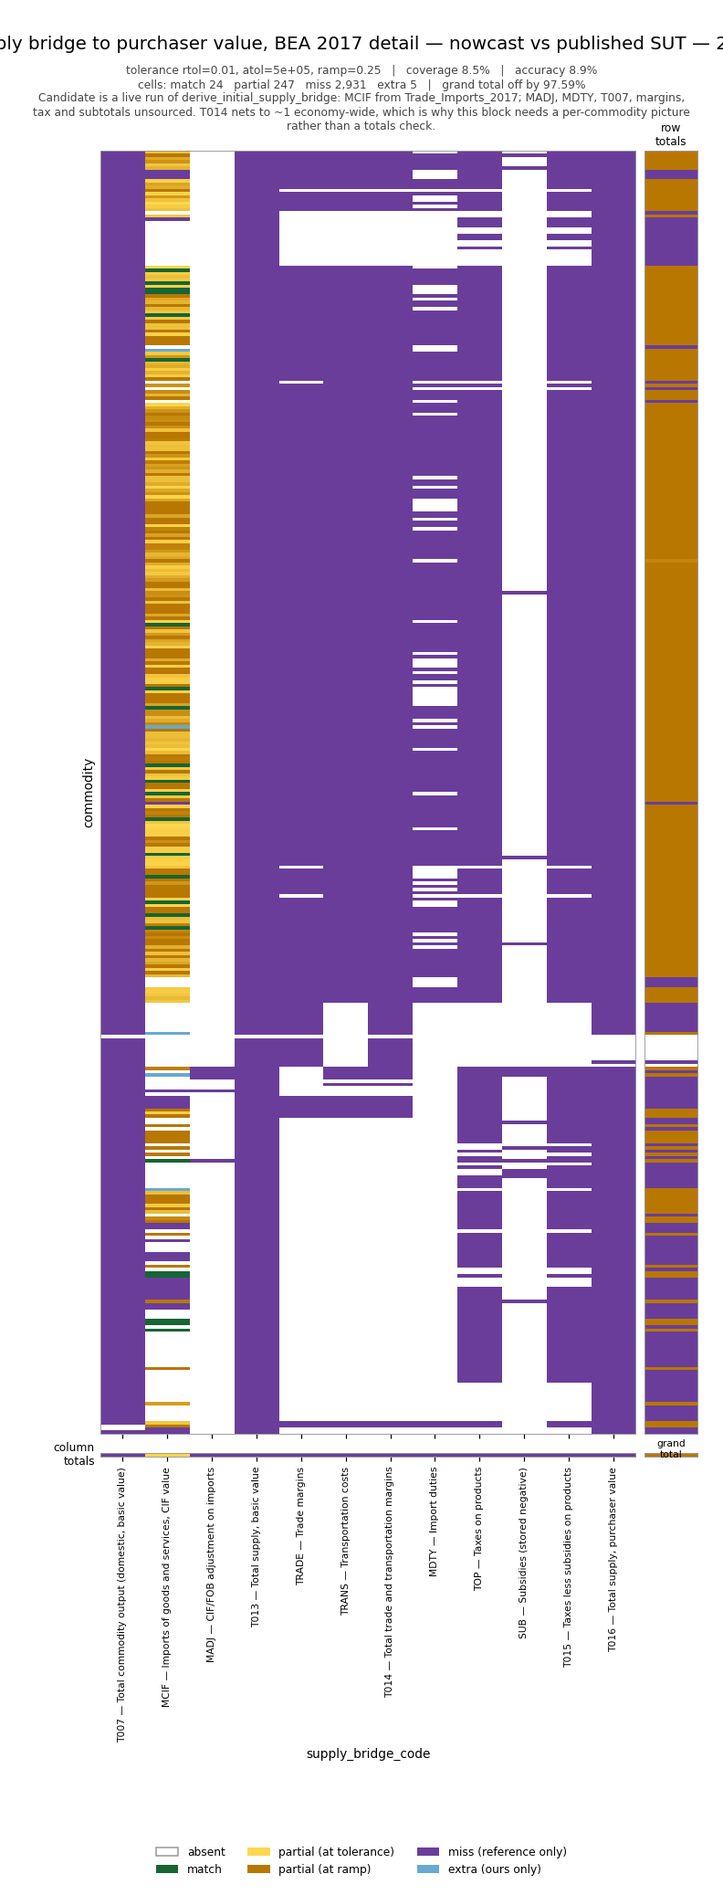
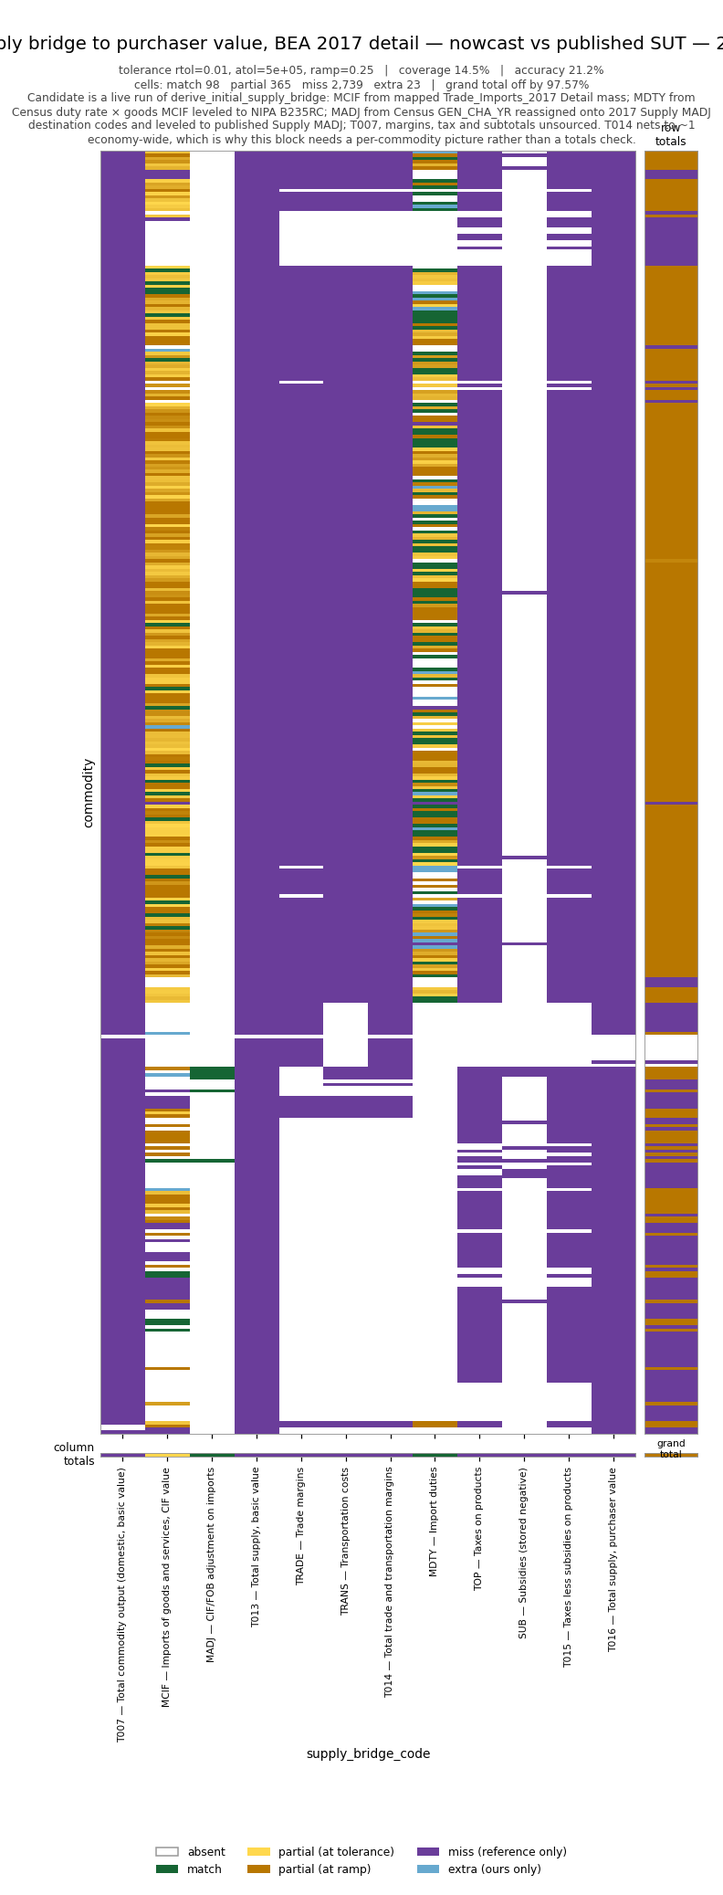
feat(nowcast): overlay F040/MCIF from mapped Trade mass (#648)
Leave ITA G+S scale in transform/trade/scale.py unused by nowcast
pending #647. Mapped Census+IEA Detail sits closer to SUT F040/MCIF
than raw ITA.

diff --git a/bedrock/transform/eeio/nowcast.py b/bedrock/transform/eeio/nowcast.py
@@ -10,16 +10,16 @@ purchaser (PUR) price, commodity x SUT final-demand codes (MUT list minus
 ``F05000``), and the Supply bridge block (commodity x the 12 basic-to-
 purchaser codes). Y source: the ``NIPA_final_dom_uses_<year>`` FBS methods
 (``bedrock/transform/nipa/NIPA_final_dom_uses_<year>.yaml``) plus, for 2017,
-``Trade_Exports_<year>`` on ``F04000``, scaled in
-``_trade_fbs_commodity_vector`` to BEA ITA G+S
-(``bedrock.transform.trade.scale.scale_amounts_to_ita``). ``F03000``
-(change in private inventories, #529) is present but all-zero. ``F05000``
-is MUT-only and is not a Y column. The Supply bridge fills ``MCIF`` from
-``Trade_Imports_<year>`` (same ITA scale), ``MDTY`` from Census duty
-rates leveled to NIPA ``B235RC``, and ``MADJ`` from Census import
+``Trade_Exports_<year>`` on ``F04000`` via mapped Detail mass in
+``_trade_fbs_commodity_vector``. ``F03000`` (change in private
+inventories, #529) is present but all-zero. ``F05000`` is MUT-only and
+is not a Y column. The Supply bridge fills ``MCIF`` from
+``Trade_Imports_<year>`` (same mapped Detail mass), ``MDTY`` from Census
+duty rates leveled to NIPA ``B235RC``, and ``MADJ`` from Census import
 charges (``GEN_CHA_YR``) reassigned onto 2017 Supply ``MADJ``
 destination codes and leveled to published Supply ``MADJ``, for 2017;
-other bridge columns are unsourced.
+other bridge columns are unsourced. ITA G+S scale lives in
+``bedrock.transform.trade.scale`` and is not applied here (#647).
 
 Each ``NIPA_final_dom_uses_<year>.yaml`` activity_set assigns its official BEA
 final-demand code directly to ``SectorConsumedBy`` via a
@@ -61,10 +61,6 @@ from bedrock.transform.allocation.derived import map_fbs_sectors_to_model_schema
 from bedrock.transform.flowbysector import FlowBySector, getFlowBySector
 from bedrock.transform.trade.duties import mdty_detail_usd
 from bedrock.transform.trade.madj import madj_detail_usd
-from bedrock.transform.trade.scale import (
-    scale_amounts_to_ita,
-    trade_direction_from_method,
-)
 from bedrock.utils.economic.units import MILLION_CURRENCY_TO_CURRENCY
 from bedrock.utils.taxonomy.bea.v2017_commodity import USA_2017_COMMODITY_CODES
 from bedrock.utils.taxonomy.bea.v2017_final_demand import SUT_FINAL_DEMAND_CODES
@@ -104,27 +100,24 @@ def _resolve_both_sector_columns(fbs: pd.DataFrame) -> pd.DataFrame:
 def _trade_fbs_commodity_vector(method: str, download_sources_ok: bool) -> pd.Series:
     """Commodity totals from a Trade FBS, USD, indexed by BEA 2017 Detail.
 
-    Mapped Detail mass is scaled to BEA ITA goods+services
-    (``ita_gs_totals_usd``) after groupby and reindex onto
-    ``USA_2017_COMMODITY_CODES`` so industry-only Crosswalk rows (e.g.
-    ``331314``) are not in the ITA denominator. Year is the trailing
-    ``_YYYY`` on the method name. Callers that overwrite ``S00900`` /
-    ``F04000`` must do so after this vector is written.
+    Groupby and reindex onto ``USA_2017_COMMODITY_CODES`` so industry-only
+    Crosswalk rows (e.g. ``331314``) are dropped. Callers that overwrite
+    ``S00900`` / ``F04000`` must do so after this vector is written. Mapped
+    Detail mass only; ITA G+S scale is ``bedrock.transform.trade.scale``
+    (#647).
     """
-    year = int(method.rsplit('_', 1)[-1])
     fbs = getFlowBySector(
         method,
         download_FBAs_if_missing=download_sources_ok,
         download_FBS_if_missing=download_sources_ok,
     )
-    amounts = (
+    return (
         pd.DataFrame(fbs)
         .groupby('SectorProducedBy')['FlowAmount']
         .sum()
         .reindex(USA_2017_COMMODITY_CODES)
         .fillna(0.0)
     )
-    return scale_amounts_to_ita(amounts, year, trade_direction_from_method(method))
 
 
 def _s00900_export_identity_usd() -> float:
@@ -142,8 +135,9 @@ def derive_initial_Y_pur(year: int, download_sources_ok: bool = False) -> pd.Dat
     price, commodity x SUT final-demand codes (no F05000).
 
     F03000 (change in private inventories, #529) is present but all-zero.
-    F04000 is ITA-scaled Trade_Exports_<year> for 2017; other years all-zero.
-    S00900/F04000 uses the rest-of-world identity against Supply T016 (2017).
+    F04000 is mapped Trade_Exports_<year> Detail mass for 2017; other years
+    all-zero. S00900/F04000 uses the rest-of-world identity against Supply
+    T016 (2017).
     """
     fbs = FlowBySector.generateFlowBySector(
         f'NIPA_final_dom_uses_{year}', download_sources_ok=download_sources_ok
@@ -180,8 +174,8 @@ def derive_initial_supply_bridge(
 ) -> pd.DataFrame:
     """Commodity x Supply-bridge codes, USD, BEA 2017 Detail rows.
 
-    MCIF is ITA-scaled Trade_Imports_<year> for 2017. MDTY is Census duty
-    rate × goods MCIF, leveled to NIPA B235RC, for 2017. MADJ is Census
+    MCIF is mapped Trade_Imports_<year> Detail mass for 2017. MDTY is Census
+    duty rate × goods MCIF, leveled to NIPA B235RC, for 2017. MADJ is Census
     GEN_CHA_YR reassigned onto 2017 Supply MADJ destination codes, leveled
     to published Supply MADJ. Other years and remaining columns (T007,
     margins, tax, subtotals, T013) are unsourced. Callers must not mutate

diff --git a/bedrock/analysis/nowcasting/sections.py b/bedrock/analysis/nowcasting/sections.py
@@ -391,12 +391,12 @@ SUPPLY_BRIDGE_DETAIL_SUT = Section(
     candidate=initial_supply_bridge_candidate,
     note=(
         'Candidate is a live run of derive_initial_supply_bridge: MCIF from '
-        'ITA-scaled Trade_Imports_2017; MDTY from Census duty rate × goods '
-        'MCIF leveled to NIPA B235RC; MADJ from Census GEN_CHA_YR reassigned '
-        'onto 2017 Supply MADJ destination codes and leveled to published '
-        'Supply MADJ; T007, margins, tax and subtotals unsourced. T014 nets '
-        'to ~1 economy-wide, which is why this block needs a per-commodity '
-        'picture rather than a totals check.'
+        'mapped Trade_Imports_2017 Detail mass; MDTY from Census duty rate × '
+        'goods MCIF leveled to NIPA B235RC; MADJ from Census GEN_CHA_YR '
+        'reassigned onto 2017 Supply MADJ destination codes and leveled to '
+        'published Supply MADJ; T007, margins, tax and subtotals unsourced. '
+        'T014 nets to ~1 economy-wide, which is why this block needs a '
+        'per-commodity picture rather than a totals check.'
     ),
 )
 

diff --git a/bedrock/transform/trade/duties.py b/bedrock/transform/trade/duties.py
@@ -108,7 +108,7 @@ def mdty_detail_usd(year: int, download_sources_ok: bool = True) -> pd.Series:
     """Detail ``MDTY``: Census duty rate × goods MCIF, leveled to NIPA ``B235RC``.
 
     Rate is mapped ``CAL_DUT_YR`` / mapped ``GEN_VAL_YR``. Services stay at
-    zero. Uniform ITA scale on full MCIF cancels after the national rescale.
+    zero.
     """
     if int(year) != 2017:
         raise NotImplementedError(

diff --git a/bedrock/transform/trade/scale.py b/bedrock/transform/trade/scale.py
@@ -1,4 +1,8 @@
-"""Scale Trade mapped mass to BEA ITA goods+services national totals."""
+"""Scale Trade mapped mass to BEA ITA goods+services national totals.
+
+Nowcast F040/MCIF overlay does not call these helpers. Overlay mass is
+mapped Trade FBS Detail. Whether to apply this scale is #647.
+"""
 
 from __future__ import annotations
 

diff --git a/bedrock/analysis/nowcasting/plan.md b/bedrock/analysis/nowcasting/plan.md
@@ -232,7 +232,7 @@ shares the aggregator machinery with Decision 3's aggregate constraints.
 | F02S00 | Nonres. private fixed investment in structures | ✅ `FD_Structures2` |
 | F06/F07/F10 (12 codes) | Federal/State/Local CE, Equip, IP, Structures | ✅ `FD_Gov_*` — **all twelve reproduce the Use table cell for cell**, zero cells off by >$1M ([#633](https://github.com/cornerstone-data/bedrock/issues/633)/[#634](https://github.com/cornerstone-data/bedrock/pull/634)). The former SLG Equipment/Structures/IP bug was `S00402` unreachable via two crosswalks, and was never SLG-only |
 | F03000 | Change in private inventories | ⏳ **own FBS — 1C.** Source settled, mostly already extracted (§`F03000` below, [`inventories_estimation_plan.md`](inventories_estimation_plan.md)) — `U50705BU1` is in the extract list and unused; not built. [#529](https://github.com/cornerstone-data/bedrock/issues/529)/[#530](https://github.com/cornerstone-data/bedrock/issues/530)/[#531](https://github.com/cornerstone-data/bedrock/issues/531) |
-| F04000 | Exports | ⏳ **own FBS — 1B.** 2017 overlay ([#528](https://github.com/cornerstone-data/bedrock/issues/528): [#617](https://github.com/cornerstone-data/bedrock/pull/617) [#618](https://github.com/cornerstone-data/bedrock/pull/618) [#622](https://github.com/cornerstone-data/bedrock/pull/622) [#623](https://github.com/cornerstone-data/bedrock/pull/623) [#638](https://github.com/cornerstone-data/bedrock/pull/638)) — Census FAS goods + IEA TypeOfService leaves on `BEA_detail_commodity_target.yaml`; `S00900` from −F010 + Supply T016. Nowcast scales mapped Trade mass to ITA G+S before overlay. 2018–2024 methods open. 2017 scorecard FAIL + inventory vs #557 bars (SUT benchmark; ITA control is separate). |
+| F04000 | Exports | ⏳ **own FBS — 1B.** 2017 overlay ([#528](https://github.com/cornerstone-data/bedrock/issues/528): [#617](https://github.com/cornerstone-data/bedrock/pull/617) [#618](https://github.com/cornerstone-data/bedrock/pull/618) [#622](https://github.com/cornerstone-data/bedrock/pull/622) [#623](https://github.com/cornerstone-data/bedrock/pull/623) [#638](https://github.com/cornerstone-data/bedrock/pull/638) [#642](https://github.com/cornerstone-data/bedrock/pull/642)) — Census FAS goods + IEA TypeOfService leaves on `BEA_detail_commodity_target.yaml`; `S00900` from −F010 + Supply T016. Overlay mass is mapped Trade Detail (`_trade_fbs_commodity_vector`). ITA G+S scale helper exists and is not applied (#647). 2018–2024 methods open. 2017 scorecard FAIL + inventory vs #557 bars. |
 | ~~F05000~~ | ~~Imports~~ | **Not an SUT column** — belongs to Supply (`MCIF`/`MADJ`); appears only on MUT conversion |
 
 ### SUT Use — other blocks
@@ -249,7 +249,7 @@ shares the aggregator machinery with Decision 3's aggregate constraints.
 | Column | What it is | Candidate source | Status |
 |---|---|---|---|
 | cells / `T007` | Domestic output, commodity × industry, basic value | Nowcast gross industry output (`derived_gross_industry_output.py`) × commodity mix (port from `CalculateIntermediateUseAndCommodityMix.R`, #497) | ❌ **unsourced method** |
-| `MCIF` | Imports, c.i.f. | Census goods **CIF** (`GEN_CIF_YR`) + BEA `IntlServTrade` — §Trade data below | ⏳ **2017 candidate** ([#528](https://github.com/cornerstone-data/bedrock/issues/528) / [#622](https://github.com/cornerstone-data/bedrock/pull/622) [#623](https://github.com/cornerstone-data/bedrock/pull/623) [#642](https://github.com/cornerstone-data/bedrock/pull/642)) — Trade_Imports FBS on `MCIF`; nowcast scales mapped mass to ITA G+S |
+| `MCIF` | Imports, c.i.f. | Census goods **CIF** (`GEN_CIF_YR`) + BEA `IntlServTrade` — §Trade data below | ⏳ **2017 candidate** ([#528](https://github.com/cornerstone-data/bedrock/issues/528) / [#622](https://github.com/cornerstone-data/bedrock/pull/622) [#623](https://github.com/cornerstone-data/bedrock/pull/623) [#642](https://github.com/cornerstone-data/bedrock/pull/642)) — Trade_Imports FBS on `MCIF`; overlay is mapped Detail mass (ITA scale helper unused, #647) |
 | `MADJ` | Import adjustment (c.i.f./f.o.b.) | Census `GEN_CHA_YR` mapped to Detail, reassigned onto 2017 Supply `MADJ` destination codes (signed shares), leveled to published Supply `MADJ` (`madj_detail_usd`) | ⏳ **2017 candidate** — charges + destination reassignment in `derive_initial_supply_bridge` |
 | `MDTY` | Import duties | Effective duty rate from Census `CAL_DUT_YR ÷` customs value (NAICS-6, same endpoint as `MCIF`) × NIPA T30500 customs-duties level — §`MDTY` below | ⏳ **2017 candidate** — `mdty_detail_usd` in `derive_initial_supply_bridge` |
 | `TRADE` | Wholesale + retail margins, by commodity | Aggregate of the nowcast Margins dataset (§Step 4c) | ❌ **unsourced** |
@@ -303,10 +303,11 @@ Ranked by how much they block:
 2. ~~**Trade data source (#527)**~~ — **settled** in
    [#557](https://github.com/cornerstone-data/bedrock/pull/557): Census goods + BEA services as the
    primary extract, BEA ITA as the national totals control, BACI out of scope. See §Trade data below.
-   What remains is not a source question but reconciliation on #528: ITA G+S scale, FAS vs PUR,
-   import valuation overlap (CIF vs customs / `MADJ`), and `S00300` specials policy. IEA TypeOfService
-   leaves are mapped; Crosswalk revisions sit in `bedrock/transform/trade/README.md`. `MDTY` rides on
-   the same Census request (`CAL_DUT_YR`) — see §`MDTY`.
+   [#647](https://github.com/cornerstone-data/bedrock/issues/647) reopens whether nowcast should apply
+   that ITA control. What remains on #528 is FAS vs PUR, import valuation overlap (CIF vs customs /
+   `MADJ`), and `S00300` specials policy. IEA TypeOfService leaves are mapped; Crosswalk revisions
+   sit in `bedrock/transform/trade/README.md`. `MDTY` rides on the same Census request (`CAL_DUT_YR`)
+   — see §`MDTY`.
 3. **Product taxes and subsidies — the split, on *both* axes** (`TOP`, `SUB`, and the Use table's
    `T00TOP`/`T00SUB` rows). NIPA gives totals (T30500, T31300); allocating them does not come for
    free.
@@ -344,14 +345,14 @@ Implementation is [#528](https://github.com/cornerstone-data/bedrock/issues/528)
 [#618](https://github.com/cornerstone-data/bedrock/pull/618), Y F040 + Supply MCIF overlay
 [#622](https://github.com/cornerstone-data/bedrock/pull/622), 2017 scorecard + IEA leaf Crosswalk
 [#623](https://github.com/cornerstone-data/bedrock/pull/623). This path feeds `F04000`, Supply `MCIF`,
-and Step 6c's import matrix. ITA G+S scale, `MDTY` / `MADJ`,
-`S00300` hold-from-Supply, and 2018–2024 Trade methods remain open on #528.
+and Step 6c's import matrix. ITA G+S scale is [#647](https://github.com/cornerstone-data/bedrock/issues/647).
+`S00300` hold-from-Supply and 2018–2024 Trade methods remain open on #528.
 
 | Role | Source |
 |---|---|
 | Goods extract | Census International Trade, NAICS-6 — imports **CIF** (`GEN_CIF_YR`, to match Supply `MCIF`), exports FAS-family (`ALL_VAL_YR`) |
 | Services extract | BEA `IntlServTrade`, by type of service, imports and exports |
-| National totals control | BEA ITA Tables 2.1 (goods) / 3.1 (services) — scale or residual-constrain; a raw Census+BEA sum is **not** the final total. Loader exists; nowcast applies G+S scale in `_trade_fbs_commodity_vector` (FBS parquet stays unscaled). |
+| National totals control | BEA ITA Tables 2.1 (goods) / 3.1 (services) — loader `ita_gs_totals_usd` and `scale_amounts_to_ita` exist. Nowcast F040/MCIF overlay uses mapped Trade FBS Detail mass. Whether to apply a national ITA (or other) control is [#647](https://github.com/cornerstone-data/bedrock/issues/647). |
 | Sector bridge | `Sector_Crosswalk_Census_USATrade.csv` (Census NAICS-6 → Detail); `Sector_Crosswalk_BEA_IEA.csv` (IntlServTrade TypeOfService leaves → Detail). Parents omitted when children are mapped. Methods include `BEA_detail_commodity_target.yaml`. |
 | 2017 structure/specials benchmark | Use `F04000` and Supply `MCIF` (`F05000` is MUT-only) |
 
@@ -414,7 +415,7 @@ Worth pulling in the same request even if only used diagnostically.
 `download_imports_data.py` is imports-only legacy and is *not* the production extract.
 
 **What the 2017 scorecard says** (`score_2017_trade_detail`, USD, after F040 overlay + `S00900`
-identity and MCIF-only bridge; inventory in `bedrock/transform/trade/README.md`):
+identity and Supply `MCIF`; inventory in `bedrock/transform/trade/README.md`):
 
 | | National % | Pearson all / non-`S00*` | Top-20 Jaccard all / non-`S00*` |
 |---|---|---|---|
@@ -425,7 +426,6 @@ F040 national miss is Census FAS goods vs SUT goods F040 (~+14%); mapped IEA lea
 service F040. Census + IEA `AllTypesOfService` tracks ITA G+S; SUT F040 is the lower frame. MCIF
 national sits inside ~2–3% because `S00300` miss (260 B) offsets CIF goods and mapped-service
 overshoot. Export Pearson on non-specials clears the #557 bar; import Pearson is just short of 0.85.
-Uniform ITA scale does not fill `MISS` holes or move Pearson.
 
 **Three carried-forward problems, all on the reconciliation side, none of them a source problem:**
 
@@ -595,7 +595,7 @@ are 1B because they are not domestic; inventories are 1C.
 **1B — Trade** (#526, #528). ⏳ `F04000` exports plus the Supply-side import columns from one
 extraction — Census FAS goods + `BEA_IEA` `TypeOfService` leaves, mapped to BEA Detail, with
 `S00900` from the identity −F010 + Supply `T016`. Built and wired for 2017 (#617, #618, #622, #623);
-the same extract serves Step 4b. Open: ITA G+S scale, FAS→PUR, and the 2018–2024 methods. The 2017
+the same extract serves Step 4b. Open: ITA G+S scale ([#647](https://github.com/cornerstone-data/bedrock/issues/647)), FAS→PUR, and the 2018–2024 methods. The 2017
 scorecard is **FAIL + inventory** against the #557 bars (`score_2017_trade_detail`; §Trade data).
 ⏳ **Schema fix pending in [#638](https://github.com/cornerstone-data/bedrock/pull/638).** The trade
 yamls declared `target_naics_year` where the code has read `target_schema_year` since #630, so they
@@ -801,7 +801,7 @@ bridge basis, and explain the $15B. Until then `F02E00`'s nowcast target is off 
   four inventories rules, so the porting cost is shared three ways.
 - 4b. **Import columns** — 2017 `MCIF` is the Trade Imports FBS (Census **CIF** goods + IEA services,
   Detail Crosswalk). Keep CIF because `MCIF` is the CIF target (2017: Use `|F05000|` / `MCIF` = 0.991).
-  ITA scale, `S00300` residual, and later years stay on #528. Shares the extract with Step 1d.
+  ITA scale is [#647](https://github.com/cornerstone-data/bedrock/issues/647); `S00300` residual and later years stay on #528. Shares the extract with Step 1d.
   `MDTY` comes from the **same request**: pull `CAL_DUT_YR` and customs value alongside `GEN_CIF_YR`,
   form an effective duty rate per sector, apply it to the controlled import vector, and set the level
   from NIPA T30500's customs-duties line (§`MDTY`). Do **not** carry Census duty levels through — the

diff --git a/bedrock/analysis/nowcasting/progress_report.md b/bedrock/analysis/nowcasting/progress_report.md
@@ -13,7 +13,7 @@ uv run python -m bedrock.analysis.nowcasting.plots \
     --dpi 110 --out-dir bedrock/analysis/nowcasting/images --no-report   # the copies below
 ```
 
-**Snapshot date:** 2026-08-14. Step 1 is a live `derive_initial_Y_pur` (`NIPA_final_dom_uses_2017` plus Trade `F04000`). Step 4 is a live `derive_initial_supply_bridge` (`MCIF` from `Trade_Imports_2017`; other bridge columns unsourced).
+**Snapshot date:** 2026-08-15. Step 1 is a live `derive_initial_Y_pur` (`NIPA_final_dom_uses_2017` plus Trade `F04000`). Step 4 is a live `derive_initial_supply_bridge` (`MCIF` from `Trade_Imports_2017`; `MDTY` and `MADJ` sourced for 2017; other bridge columns unsourced).
 
 ---
 
@@ -23,7 +23,7 @@ uv run python -m bedrock.analysis.nowcasting.plots \
 |---|---|---|---:|---:|---|---:|---:|
 | `use_fd_detail_sut` | 1 — final demand | 402 × 19 | 1,253 cells | $22.24T | live | **75.3%** | **69.8%** |
 | `use_va_detail_sut` | 2 — value added | 3 × 402 | 1,189 cells | $18.92T | *none yet* | — | — |
-| `supply_bridge_detail_sut` | 4 — supply bridge | 402 × 12 | 3,202 cells | $111.28T | live (MCIF) | **8.5%** | **8.9%** |
+| `supply_bridge_detail_sut` | 4 — supply bridge | 402 × 12 | 3,202 cells | $111.28T | live (MCIF, MADJ, MDTY) | **14.5%** | **21.2%** |
 
 **coverage** = of the cells the reference populates, how many we populate.
 **accuracy** = of the cells we populate, how many land within tolerance.
@@ -117,19 +117,19 @@ Turning it on: point `Section.candidate` at the Step 2 output.
 
 | scope | absent | match | partial | miss | extra |
 |---|---:|---:|---:|---:|---:|
-| cells | 1,599 | 77 | 382 | 2,743 | 23 |
-| row totals | 9 | 0 | 276 | 117 | 0 |
+| cells | 1,599 | 98 | 365 | 2,739 | 23 |
+| row totals | 9 | 0 | 279 | 114 | 0 |
 | column totals | 0 | 2 | 1 | 9 | 0 |
 
 | | |
 |---|---:|
-| coverage | 14.3% |
-| accuracy | 16.8% |
-| candidate grand total | $2.78T |
+| coverage | 14.5% |
+| accuracy | 21.2% |
+| candidate grand total | $2.70T |
 | reference grand total | $111.28T |
-| grand total error | 97.5% |
+| grand total error | 97.6% |
 
-`MCIF`, `MADJ`, and `MDTY` are sourced for 2017 (`Trade_Imports_2017` with ITA scale; Census `GEN_CHA_YR` reassigned onto Supply `MADJ` destinations and leveled to Supply `MADJ`; Census duty rates leveled to NIPA `B235RC`). Column totals for `MADJ` and `MDTY` match the published national (within the section tolerance). `T007`, `TRADE`/`TRANS`/`T014`, `TOP`/`SUB`/`T015`, and the `T013`/`T016` identities are unsourced.
+`MCIF`, `MADJ`, and `MDTY` are sourced for 2017 (`Trade_Imports_2017` mapped Detail mass; Census `GEN_CHA_YR` reassigned onto Supply `MADJ` destinations and leveled to Supply `MADJ`; Census duty rates leveled to NIPA `B235RC`). Column totals for `MADJ` and `MDTY` match the published national (within the section tolerance). `MCIF` is `partial` at the column total (+1.29% vs published). `T007`, `TRADE`/`TRANS`/`T014`, `TOP`/`SUB`/`T015`, and the `T013`/`T016` identities are unsourced.
 
 The right-hand block of the Supply table: imports, margins, taxes and the
 subtotals carrying a commodity from domestic output at basic value to total
@@ -170,7 +170,7 @@ T016 = T013 + T014 + T015
 
 ## Caveats
 
-**`F04000` / `MCIF` do not clear the #557 bars.** National F040 is +6.15%; import Pearson on non-specials is 0.84 vs ≳ 0.85. Hole rules and ITA G+S scale sit on #528.
+**`F04000` / `MCIF` do not clear the #557 bars.** National F040 is +6.15%; import Pearson on non-specials is 0.84 vs ≳ 0.85. Hole rules sit on #528. Whether to apply a national ITA (or other) control is #647.
 
 **`F03000` is unsourced.** Inventories are a whole-column miss (#529).
 

diff --git a/bedrock/transform/trade/README.md b/bedrock/transform/trade/README.md
@@ -11,22 +11,20 @@ Crosswalks: `Sector_Crosswalk_Census_USATrade.csv` and `Sector_Crosswalk_BEA_IEA
 
 Do not copy `Cornerstone_2025_target.yaml` / `BEA_detail_target.yaml` here — those select NAICS leaves; these Crosswalks emit Detail.
 
-### ITA G+S scale (nowcast overlay)
+### Overlay (nowcast)
 
-FBS parquet stays unscaled. `bedrock.transform.eeio.nowcast._trade_fbs_commodity_vector` aggregates to Detail, drops non-SUT commodity codes (e.g. industry-only `331314`), then multiplies by `ita_gs_totals_usd(year)[exports|imports] / sum(Detail)` via `bedrock.transform.trade.scale.scale_amounts_to_ita` before writing Use `F04000` and Supply `MCIF`. Uniform scale does not fill `MISS` holes or change Pearson/Jaccard. `S00900` / `F04000` is still the Y identity after overlay (not part of the scaled Trade vector).
+`bedrock.transform.eeio.nowcast._trade_fbs_commodity_vector` aggregates Trade FBS to Detail and drops non-SUT commodity codes (e.g. industry-only `331314`) before writing Use `F04000` and Supply `MCIF`. FBS parquet is the same mapped mass. `S00900` / `F04000` is the Y identity after overlay (not part of the Trade vector). `bedrock.transform.trade.scale.scale_amounts_to_ita` can multiply a Detail series to ITA G+S; nowcast does not call it (#647).
 
 ## 2017 nowcast scorecard
 
-Scored from `use_fd_detail_sut` `F04000` and `supply_bridge_detail_sut` `MCIF` (USD), after Trade overlay, ITA scale, and the `S00900` identity. Command: `uv run python -m bedrock.analysis.nowcasting.trade_data.score_2017_trade_detail`.
+Scored from `use_fd_detail_sut` `F04000` and `supply_bridge_detail_sut` `MCIF` (USD), after Trade overlay and the `S00900` identity. Command: `uv run python -m bedrock.analysis.nowcasting.trade_data.score_2017_trade_detail`.
 
-**Control (ITA):** scaled Detail export/import mass and non-`S00900` `F04000` match ITA G+S (USD, exact at float). `S00900` / `F04000` matches published within 1 M USD via the Y identity. **Benchmark vs SUT (#557 bars):** national ~2–3%; import Pearson ≳ 0.85 / export ≳ 0.75–0.85 on non-`S00*`; top-20 Jaccard ≳ 0.7 / ≳ 0.6. ITA control can move national % **away from** SUT; that does not fail the control gate.
+**Overlay mass:** mapped Trade Detail (Census goods + BEA IEA services). `S00900` / `F04000` matches published within 1 M USD via the Y identity. **Benchmark vs SUT (#557 bars):** national ~2–3%; import Pearson ≳ 0.85 / export ≳ 0.75–0.85 on non-`S00*`; top-20 Jaccard ≳ 0.7 / ≳ 0.6.
 
 | | National % vs SUT | Pearson all / non-`S00*` | Spearman all / non-`S00*` | Top-20 Jaccard all / non-`S00*` |
 |---|---|---|---|---|
-| F040 exports | +18.50% | 0.92 / 0.89 | 0.87 / 0.87 | 0.60 / 0.60 |
-| MCIF imports | +4.34% | 0.62 / 0.84 | 0.90 / 0.91 | 0.67 / 0.74 |
-
-Pearson/Jaccard match the pre-scale #623 readout within rounding (holes unchanged). National % vs SUT moved **away** from the pre-scale +6.15% / +1.29% toward ITA+identity vs SUT, as expected when the control is ITA rather than SUT F040/MCIF.
+| F040 exports | +6.15% | 0.93 / 0.89 | 0.87 / 0.87 | 0.60 / 0.60 |
+| MCIF imports | +1.29% | 0.62 / 0.84 | 0.90 / 0.91 | 0.67 / 0.74 |
 
 ## Residual / specials
 
